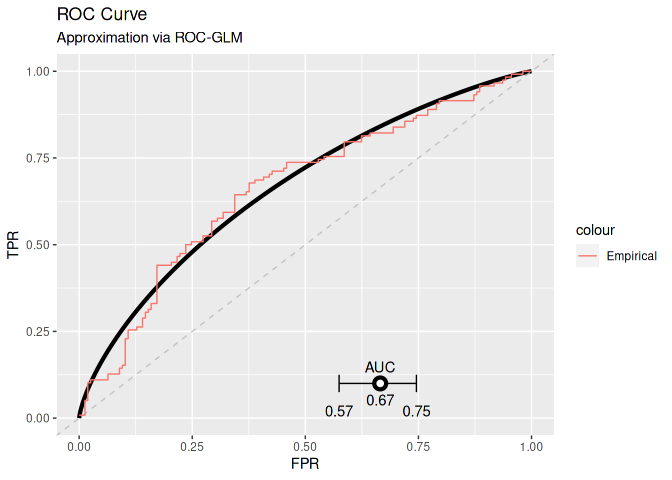
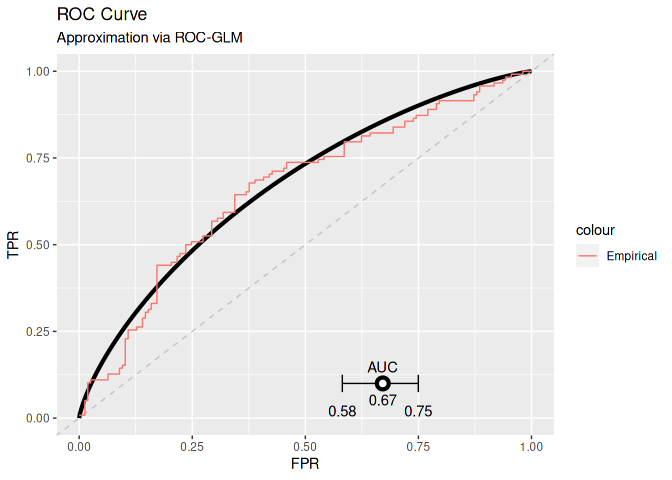
updates

diff --git a/README.md b/README.md
@@ -66,6 +66,8 @@ source(here::here("R/install-ds-packages.R"))
 
 ``` r
 library(DSI)
+#> Loading required package: progress
+#> Loading required package: R6
 library(DSOpal)
 library(dsBaseClient)
 
@@ -103,7 +105,7 @@ conn = datashield.login(logins = builder$build(), assign = TRUE)
 #>   (the whole dataset) will be assigned to R!
 #> 
 #> Assigning table data...
-#>    [-------------------------------------------------------------------------------------]   0% / 0s  Assigning ds1 (DIFUTURE-TEST.SRV1) [=======>-------------------------------------------]  17% / 2s  Assigning ds2 (DIFUTURE-TEST.SRV2) [================>----------------------------------]  33% / 2s  Assigning ds3 (DIFUTURE-TEST.SRV3) [=========================>-------------------------]  50% / 2s  Assigning ds4 (DIFUTURE-TEST.SRV4) [=================================>-----------------]  67% / 3s  Assigning ds5 (DIFUTURE-TEST.SRV5) [=========================================>---------]  83% / 3s  Assigned all tables [==================================================================] 100% / 4s
+#>    [-------------------------------------------------------------------------------------]   0% / 0s  Assigning ds1 (DIFUTURE-TEST.SRV1) [=======>-------------------------------------------]  17% / 2s  Assigning ds2 (DIFUTURE-TEST.SRV2) [================>----------------------------------]  33% / 2s  Assigning ds3 (DIFUTURE-TEST.SRV3) [=========================>-------------------------]  50% / 3s  Assigning ds4 (DIFUTURE-TEST.SRV4) [=================================>-----------------]  67% / 3s  Assigning ds5 (DIFUTURE-TEST.SRV5) [=========================================>---------]  83% / 3s  Assigned all tables [==================================================================] 100% / 4s
 datashield.symbols(conn)
 #> $ds1
 #> [1] "D"
@@ -119,6 +121,92 @@ datashield.symbols(conn)
 #> 
 #> $ds5
 #> [1] "D"
+ds.summary("D")
+#>    [-------------------------------------------------------------------------------------]   0% / 0s  Checking ds1 (exists("D")) [-----------------------------------------------------------]   0% / 0s  Getting aggregate ds1 (exists("D")) [=======>------------------------------------------]  17% / 0s  Checking ds2 (exists("D")) [=========>-------------------------------------------------]  17% / 0s  Getting aggregate ds2 (exists("D")) [================>---------------------------------]  33% / 0s  Checking ds3 (exists("D")) [===================>---------------------------------------]  33% / 1s  Getting aggregate ds3 (exists("D")) [========================>-------------------------]  50% / 1s  Checking ds4 (exists("D")) [=============================>-----------------------------]  50% / 1s  Getting aggregate ds4 (exists("D")) [================================>-----------------]  67% / 1s  Checking ds5 (exists("D")) [======================================>--------------------]  67% / 1s  Getting aggregate ds5 (exists("D")) [=========================================>--------]  83% / 1s  Aggregated (exists("D")) [=============================================================] 100% / 1s
+#>    [-------------------------------------------------------------------------------------]   0% / 0s  Aggregating ds1 (classDS("D")) [========>----------------------------------------------]  17% / 0s  Aggregating ds2 (classDS("D")) [=================>-------------------------------------]  33% / 0s  Aggregating ds3 (classDS("D")) [===========================>---------------------------]  50% / 0s  Aggregating ds4 (classDS("D")) [====================================>------------------]  67% / 0s  Aggregating ds5 (classDS("D")) [=============================================>---------]  83% / 0s  Checking ds1 (classDS("D")) [----------------------------------------------------------]   0% / 0s  Getting aggregate ds1 (classDS("D")) [=======>-----------------------------------------]  17% / 0s  Checking ds2 (classDS("D")) [=========>------------------------------------------------]  17% / 0s  Getting aggregate ds2 (classDS("D")) [===============>---------------------------------]  33% / 0s  Checking ds3 (classDS("D")) [==================>---------------------------------------]  33% / 0s  Getting aggregate ds3 (classDS("D")) [=======================>-------------------------]  50% / 0s  Checking ds4 (classDS("D")) [============================>-----------------------------]  50% / 0s  Getting aggregate ds4 (classDS("D")) [================================>----------------]  67% / 0s  Checking ds5 (classDS("D")) [======================================>-------------------]  67% / 0s  Getting aggregate ds5 (classDS("D")) [========================================>--------]  83% / 0s  Aggregated (classDS("D")) [============================================================] 100% / 0s
+#>    [-------------------------------------------------------------------------------------]   0% / 0s  Checking ds1 (isValidDS(D)) [----------------------------------------------------------]   0% / 0s  Getting aggregate ds1 (isValidDS(D)) [=======================>-------------------------]  50% / 0s  Aggregated (isValidDS(D)) [============================================================] 100% / 0s
+#>    [-------------------------------------------------------------------------------------]   0% / 0s  Checking ds1 (dimDS("D")) [------------------------------------------------------------]   0% / 0s  Getting aggregate ds1 (dimDS("D")) [=========================>-------------------------]  50% / 0s  Aggregated (dimDS("D")) [==============================================================] 100% / 0s
+#>    [-------------------------------------------------------------------------------------]   0% / 0s  Checking ds1 (colnamesDS("D")) [-------------------------------------------------------]   0% / 0s  Getting aggregate ds1 (colnamesDS("D")) [======================>-----------------------]  50% / 0s  Aggregated (colnamesDS("D")) [=========================================================] 100% / 0s
+#>    [-------------------------------------------------------------------------------------]   0% / 0s  Checking ds2 (isValidDS(D)) [----------------------------------------------------------]   0% / 0s  Getting aggregate ds2 (isValidDS(D)) [=======================>-------------------------]  50% / 0s  Aggregated (isValidDS(D)) [============================================================] 100% / 0s
+#>    [-------------------------------------------------------------------------------------]   0% / 0s  Checking ds2 (dimDS("D")) [------------------------------------------------------------]   0% / 0s  Getting aggregate ds2 (dimDS("D")) [=========================>-------------------------]  50% / 0s  Aggregated (dimDS("D")) [==============================================================] 100% / 0s
+#>    [-------------------------------------------------------------------------------------]   0% / 0s  Checking ds2 (colnamesDS("D")) [-------------------------------------------------------]   0% / 0s  Getting aggregate ds2 (colnamesDS("D")) [======================>-----------------------]  50% / 0s  Aggregated (colnamesDS("D")) [=========================================================] 100% / 0s
+#>    [-------------------------------------------------------------------------------------]   0% / 0s  Checking ds3 (isValidDS(D)) [----------------------------------------------------------]   0% / 0s  Getting aggregate ds3 (isValidDS(D)) [=======================>-------------------------]  50% / 0s  Aggregated (isValidDS(D)) [============================================================] 100% / 0s
+#>    [-------------------------------------------------------------------------------------]   0% / 0s  Checking ds3 (dimDS("D")) [------------------------------------------------------------]   0% / 0s  Getting aggregate ds3 (dimDS("D")) [=========================>-------------------------]  50% / 0s  Aggregated (dimDS("D")) [==============================================================] 100% / 0s
+#>    [-------------------------------------------------------------------------------------]   0% / 0s  Checking ds3 (colnamesDS("D")) [-------------------------------------------------------]   0% / 0s  Getting aggregate ds3 (colnamesDS("D")) [======================>-----------------------]  50% / 0s  Aggregated (colnamesDS("D")) [=========================================================] 100% / 0s
+#>    [-------------------------------------------------------------------------------------]   0% / 0s  Checking ds4 (isValidDS(D)) [----------------------------------------------------------]   0% / 0s  Getting aggregate ds4 (isValidDS(D)) [=======================>-------------------------]  50% / 0s  Aggregated (isValidDS(D)) [============================================================] 100% / 0s
+#>    [-------------------------------------------------------------------------------------]   0% / 0s  Checking ds4 (dimDS("D")) [------------------------------------------------------------]   0% / 0s  Getting aggregate ds4 (dimDS("D")) [=========================>-------------------------]  50% / 0s  Aggregated (dimDS("D")) [==============================================================] 100% / 0s
+#>    [-------------------------------------------------------------------------------------]   0% / 0s  Checking ds4 (colnamesDS("D")) [-------------------------------------------------------]   0% / 0s  Getting aggregate ds4 (colnamesDS("D")) [======================>-----------------------]  50% / 0s  Aggregated (colnamesDS("D")) [=========================================================] 100% / 0s
+#>    [-------------------------------------------------------------------------------------]   0% / 0s  Checking ds5 (isValidDS(D)) [----------------------------------------------------------]   0% / 0s  Getting aggregate ds5 (isValidDS(D)) [=======================>-------------------------]  50% / 0s  Aggregated (isValidDS(D)) [============================================================] 100% / 0s
+#>    [-------------------------------------------------------------------------------------]   0% / 0s  Checking ds5 (dimDS("D")) [------------------------------------------------------------]   0% / 0s  Getting aggregate ds5 (dimDS("D")) [=========================>-------------------------]  50% / 0s  Aggregated (dimDS("D")) [==============================================================] 100% / 0s
+#>    [-------------------------------------------------------------------------------------]   0% / 0s  Checking ds5 (colnamesDS("D")) [-------------------------------------------------------]   0% / 0s  Getting aggregate ds5 (colnamesDS("D")) [======================>-----------------------]  50% / 0s  Aggregated (colnamesDS("D")) [=========================================================] 100% / 0s
+#> $ds1
+#> $ds1$class
+#> [1] "data.frame"
+#> 
+#> $ds1$`number of rows`
+#> [1] 52
+#> 
+#> $ds1$`number of columns`
+#> [1] 10
+#> 
+#> $ds1$`variables held`
+#>  [1] "horTh"    "age"      "menostat" "tsize"    "tgrade"   "pnodes"   "progrec"  "estrec"   "time"     "cens"    
+#> 
+#> 
+#> $ds2
+#> $ds2$class
+#> [1] "data.frame"
+#> 
+#> $ds2$`number of rows`
+#> [1] 46
+#> 
+#> $ds2$`number of columns`
+#> [1] 10
+#> 
+#> $ds2$`variables held`
+#>  [1] "horTh"    "age"      "menostat" "tsize"    "tgrade"   "pnodes"   "progrec"  "estrec"   "time"     "cens"    
+#> 
+#> 
+#> $ds3
+#> $ds3$class
+#> [1] "data.frame"
+#> 
+#> $ds3$`number of rows`
+#> [1] 55
+#> 
+#> $ds3$`number of columns`
+#> [1] 10
+#> 
+#> $ds3$`variables held`
+#>  [1] "horTh"    "age"      "menostat" "tsize"    "tgrade"   "pnodes"   "progrec"  "estrec"   "time"     "cens"    
+#> 
+#> 
+#> $ds4
+#> $ds4$class
+#> [1] "data.frame"
+#> 
+#> $ds4$`number of rows`
+#> [1] 59
+#> 
+#> $ds4$`number of columns`
+#> [1] 10
+#> 
+#> $ds4$`variables held`
+#>  [1] "horTh"    "age"      "menostat" "tsize"    "tgrade"   "pnodes"   "progrec"  "estrec"   "time"     "cens"    
+#> 
+#> 
+#> $ds5
+#> $ds5$class
+#> [1] "data.frame"
+#> 
+#> $ds5$`number of rows`
+#> [1] 63
+#> 
+#> $ds5$`number of columns`
+#> [1] 10
+#> 
+#> $ds5$`variables held`
+#>  [1] "horTh"    "age"      "menostat" "tsize"    "tgrade"   "pnodes"   "progrec"  "estrec"   "time"     "cens"
 ```
 
 ### Push and predict
@@ -129,7 +217,7 @@ load(here::here("data/mod.Rda"))
 
 ## Push the model to the servers:
 pushObject(conn, obj = mod)
-#> [2022-02-09 23:42:13] Your object is bigger than 1 MB (7.1 MB). Uploading larger objects may take some time.
+#> [2022-02-09 23:58:17] Your object is bigger than 1 MB (7.1 MB). Uploading larger objects may take some time.
 #>    [-------------------------------------------------------------------------------------]   0% / 0s  Checking ds1 (mod <- decodeBinary("58-0a-00-00-00-03-00-04-01-02-00-03-05-00-00-00-00-05-55-54-...  Finalizing assignment ds1 (mod <- decodeBinary("58-0a-00-00-00-03-00-04-01-02-00-03-05-00-00-00...  Checking ds2 (mod <- decodeBinary("58-0a-00-00-00-03-00-04-01-02-00-03-05-00-00-00-00-05-55-54-...  Finalizing assignment ds2 (mod <- decodeBinary("58-0a-00-00-00-03-00-04-01-02-00-03-05-00-00-00...  Checking ds3 (mod <- decodeBinary("58-0a-00-00-00-03-00-04-01-02-00-03-05-00-00-00-00-05-55-54-...  Finalizing assignment ds3 (mod <- decodeBinary("58-0a-00-00-00-03-00-04-01-02-00-03-05-00-00-00...  Checking ds4 (mod <- decodeBinary("58-0a-00-00-00-03-00-04-01-02-00-03-05-00-00-00-00-05-55-54-...  Finalizing assignment ds4 (mod <- decodeBinary("58-0a-00-00-00-03-00-04-01-02-00-03-05-00-00-00...  Checking ds5 (mod <- decodeBinary("58-0a-00-00-00-03-00-04-01-02-00-03-05-00-00-00-00-05-55-54-...  Finalizing assignment ds5 (mod <- decodeBinary("58-0a-00-00-00-03-00-04-01-02-00-03-05-00-00-00...  Assigned expr. (mod <- decodeBinary("58-0a-00-00-00-03-00-04-01-02-00-03-05-00-00-00-00-05-55-5...
 datashield.symbols(conn)
 #> $ds1
@@ -192,40 +280,40 @@ gg_cal
 ``` r
 roc_glm = dsROCGLM(conn, "D$cens", "probs")
 #> 
-#> [2022-02-09 23:45:17] Initializing ROC-GLM
+#> [2022-02-10 00:01:21] Initializing ROC-GLM
 #> 
-#> [2022-02-09 23:45:17] Host: Received scores of negative response
-#> [2022-02-09 23:45:17] Calculating standard deviation of differences
+#> [2022-02-10 00:01:21] Host: Received scores of negative response
+#> [2022-02-10 00:01:21] Calculating standard deviation of differences
 #>    [-------------------------------------------------------------------------------------]   0% / 0s  Checking ds1 (getNegativeScoresVar("D$cens", "probs", 4)) [----------------------------]   0% / 0s  Getting aggregate ds1 (getNegativeScoresVar("D$cens", "probs", 4)) [==>----------------]  17% / 0s  Checking ds2 (getNegativeScoresVar("D$cens", "probs", 4)) [====>-----------------------]  17% / 0s  Getting aggregate ds2 (getNegativeScoresVar("D$cens", "probs", 4)) [=====>-------------]  33% / 0s  Checking ds3 (getNegativeScoresVar("D$cens", "probs", 4)) [========>-------------------]  33% / 0s  Getting aggregate ds3 (getNegativeScoresVar("D$cens", "probs", 4)) [=========>---------]  50% / 1s  Checking ds4 (getNegativeScoresVar("D$cens", "probs", 4)) [=============>--------------]  50% / 1s  Getting aggregate ds4 (getNegativeScoresVar("D$cens", "probs", 4)) [============>------]  67% / 1s  Checking ds5 (getNegativeScoresVar("D$cens", "probs", 4)) [==================>---------]  67% / 1s  Getting aggregate ds5 (getNegativeScoresVar("D$cens", "probs", 4)) [===============>---]  83% / 1s  Aggregated (...) [=====================================================================] 100% / 1s
 #>    [-------------------------------------------------------------------------------------]   0% / 0s  Checking ds1 (meanDS(D$cens)) [--------------------------------------------------------]   0% / 0s  Getting aggregate ds1 (meanDS(D$cens)) [=======>---------------------------------------]  17% / 0s  Checking ds2 (meanDS(D$cens)) [========>-----------------------------------------------]  17% / 0s  Getting aggregate ds2 (meanDS(D$cens)) [===============>-------------------------------]  33% / 0s  Checking ds3 (meanDS(D$cens)) [==================>-------------------------------------]  33% / 0s  Getting aggregate ds3 (meanDS(D$cens)) [=======================>-----------------------]  50% / 1s  Checking ds4 (meanDS(D$cens)) [===========================>----------------------------]  50% / 1s  Getting aggregate ds4 (meanDS(D$cens)) [==============================>----------------]  67% / 1s  Checking ds5 (meanDS(D$cens)) [====================================>-------------------]  67% / 1s  Getting aggregate ds5 (meanDS(D$cens)) [======================================>--------]  83% / 1s  Aggregated (meanDS(D$cens)) [==========================================================] 100% / 1s
-#> [2022-02-09 23:45:19] Receiving negative scores
-#>    [-------------------------------------------------------------------------------------]   0% / 0s  Checking ds1 (getNegativeScores("D$cens", "probs", 0.0291762891452622, 2)) [-----------]   0% / 0s  Getting aggregate ds1 (getNegativeScores("D$cens", "probs", 0.0291762891452622, 2)) [--]  17% / 0s  Checking ds2 (getNegativeScores("D$cens", "probs", 0.0291762891452622, 2)) [=>---------]  17% / 0s  Getting aggregate ds2 (getNegativeScores("D$cens", "probs", 0.0291762891452622, 2)) [>-]  33% / 0s  Checking ds3 (getNegativeScores("D$cens", "probs", 0.0291762891452622, 2)) [===>-------]  33% / 1s  Getting aggregate ds3 (getNegativeScores("D$cens", "probs", 0.0291762891452622, 2)) [>-]  50% / 1s  Checking ds4 (getNegativeScores("D$cens", "probs", 0.0291762891452622, 2)) [=====>-----]  50% / 1s  Getting aggregate ds4 (getNegativeScores("D$cens", "probs", 0.0291762891452622, 2)) [>-]  67% / 1s  Checking ds5 (getNegativeScores("D$cens", "probs", 0.0291762891452622, 2)) [======>----]  67% / 1s  Getting aggregate ds5 (getNegativeScores("D$cens", "probs", 0.0291762891452622, 2)) [=>]  83% / 1s  Aggregated (...) [=====================================================================] 100% / 1s
-#> [2022-02-09 23:45:20] Host: Pushing pooled scores
+#> [2022-02-10 00:01:23] Receiving negative scores
+#>    [-------------------------------------------------------------------------------------]   0% / 0s  Checking ds1 (getNegativeScores("D$cens", "probs", 0.0306395105255389, 2)) [-----------]   0% / 0s  Getting aggregate ds1 (getNegativeScores("D$cens", "probs", 0.0306395105255389, 2)) [--]  17% / 0s  Checking ds2 (getNegativeScores("D$cens", "probs", 0.0306395105255389, 2)) [=>---------]  17% / 0s  Getting aggregate ds2 (getNegativeScores("D$cens", "probs", 0.0306395105255389, 2)) [>-]  33% / 0s  Checking ds3 (getNegativeScores("D$cens", "probs", 0.0306395105255389, 2)) [===>-------]  33% / 1s  Getting aggregate ds3 (getNegativeScores("D$cens", "probs", 0.0306395105255389, 2)) [>-]  50% / 1s  Checking ds4 (getNegativeScores("D$cens", "probs", 0.0306395105255389, 2)) [=====>-----]  50% / 1s  Getting aggregate ds4 (getNegativeScores("D$cens", "probs", 0.0306395105255389, 2)) [>-]  67% / 1s  Checking ds5 (getNegativeScores("D$cens", "probs", 0.0306395105255389, 2)) [======>----]  67% / 1s  Getting aggregate ds5 (getNegativeScores("D$cens", "probs", 0.0306395105255389, 2)) [=>]  83% / 1s  Aggregated (...) [=====================================================================] 100% / 1s
+#> [2022-02-10 00:01:24] Host: Pushing pooled scores
 #>    [-------------------------------------------------------------------------------------]   0% / 0s  Checking ds1 (pooled_scores <- decodeBinary("58-0a-00-00-00-03-00-04-01-02-00-03-05-00-00-00-00...  Finalizing assignment ds1 (pooled_scores <- decodeBinary("58-0a-00-00-00-03-00-04-01-02-00-03-0...  Checking ds2 (pooled_scores <- decodeBinary("58-0a-00-00-00-03-00-04-01-02-00-03-05-00-00-00-00...  Finalizing assignment ds2 (pooled_scores <- decodeBinary("58-0a-00-00-00-03-00-04-01-02-00-03-0...  Checking ds3 (pooled_scores <- decodeBinary("58-0a-00-00-00-03-00-04-01-02-00-03-05-00-00-00-00...  Finalizing assignment ds3 (pooled_scores <- decodeBinary("58-0a-00-00-00-03-00-04-01-02-00-03-0...  Checking ds4 (pooled_scores <- decodeBinary("58-0a-00-00-00-03-00-04-01-02-00-03-05-00-00-00-00...  Finalizing assignment ds4 (pooled_scores <- decodeBinary("58-0a-00-00-00-03-00-04-01-02-00-03-0...  Checking ds5 (pooled_scores <- decodeBinary("58-0a-00-00-00-03-00-04-01-02-00-03-05-00-00-00-00...  Finalizing assignment ds5 (pooled_scores <- decodeBinary("58-0a-00-00-00-03-00-04-01-02-00-03-0...  Assigned expr. (pooled_scores <- decodeBinary("58-0a-00-00-00-03-00-04-01-02-00-03-05-00-00-00-...
-#> [2022-02-09 23:45:21] Server: Calculating placement values and parts for ROC-GLM
+#> [2022-02-10 00:01:25] Server: Calculating placement values and parts for ROC-GLM
 #>    [-------------------------------------------------------------------------------------]   0% / 0s  Checking ds1 (roc_data <- rocGLMFrame("D$cens", "probs", "pooled_scores")) [-----------]   0% / 0s  Finalizing assignment ds1 (roc_data <- rocGLMFrame("D$cens", "probs", "pooled_scores")) []  17%...  Checking ds2 (roc_data <- rocGLMFrame("D$cens", "probs", "pooled_scores")) [=>---------]  17% / 0s  Finalizing assignment ds2 (roc_data <- rocGLMFrame("D$cens", "probs", "pooled_scores")) []  33%...  Checking ds3 (roc_data <- rocGLMFrame("D$cens", "probs", "pooled_scores")) [===>-------]  33% / 1s  Finalizing assignment ds3 (roc_data <- rocGLMFrame("D$cens", "probs", "pooled_scores")) []  50%...  Checking ds4 (roc_data <- rocGLMFrame("D$cens", "probs", "pooled_scores")) [=====>-----]  50% / 1s  Finalizing assignment ds4 (roc_data <- rocGLMFrame("D$cens", "probs", "pooled_scores")) []  67%...  Checking ds5 (roc_data <- rocGLMFrame("D$cens", "probs", "pooled_scores")) [======>----]  67% / 1s  Finalizing assignment ds5 (roc_data <- rocGLMFrame("D$cens", "probs", "pooled_scores")) []  83%...  Assigned expr. (roc_data <- rocGLMFrame("D$cens", "probs", "pooled_scores")) [=========] 100% / 1s
-#> [2022-02-09 23:45:22] Server: Calculating probit regression to obtain ROC-GLM
+#> [2022-02-10 00:01:26] Server: Calculating probit regression to obtain ROC-GLM
 #>    [-------------------------------------------------------------------------------------]   0% / 0s  Checking ds1 (calculateDistrGLMParts(formula = y ~ x, data = "roc_data", w = "w", ) [--]   0% / 0s  Getting aggregate ds1 (calculateDistrGLMParts(formula = y ~ x, data = "roc_data", w = "w", ) []...  Checking ds2 (calculateDistrGLMParts(formula = y ~ x, data = "roc_data", w = "w", ) [--]  17% / 0s  Getting aggregate ds2 (calculateDistrGLMParts(formula = y ~ x, data = "roc_data", w = "w", ) []...  Checking ds3 (calculateDistrGLMParts(formula = y ~ x, data = "roc_data", w = "w", ) [>-]  33% / 1s  Getting aggregate ds3 (calculateDistrGLMParts(formula = y ~ x, data = "roc_data", w = "w", ) []...  Checking ds4 (calculateDistrGLMParts(formula = y ~ x, data = "roc_data", w = "w", ) [>-]  50% / 1s  Getting aggregate ds4 (calculateDistrGLMParts(formula = y ~ x, data = "roc_data", w = "w", ) []...  Checking ds5 (calculateDistrGLMParts(formula = y ~ x, data = "roc_data", w = "w", ) [>-]  67% / 1s  Getting aggregate ds5 (calculateDistrGLMParts(formula = y ~ x, data = "roc_data", w = "w", ) []...  Aggregated (calculateDistrGLMParts(formula = y ~ x, data = "roc_data", w = "w", ) [====] 100% / 1s
-#> [2022-02-09 23:45:23] Deviance of iter1=52.6631
-#>    [-------------------------------------------------------------------------------------]   0% / 0s  Checking ds1 (calculateDistrGLMParts(formula = y ~ x, data = "roc_data", w = "w", ) [--]   0% / 0s  Getting aggregate ds1 (calculateDistrGLMParts(formula = y ~ x, data = "roc_data", w = "w", ) []...  Checking ds2 (calculateDistrGLMParts(formula = y ~ x, data = "roc_data", w = "w", ) [--]  17% / 0s  Getting aggregate ds2 (calculateDistrGLMParts(formula = y ~ x, data = "roc_data", w = "w", ) []...  Checking ds3 (calculateDistrGLMParts(formula = y ~ x, data = "roc_data", w = "w", ) [>-]  33% / 1s  Getting aggregate ds3 (calculateDistrGLMParts(formula = y ~ x, data = "roc_data", w = "w", ) []...  Checking ds4 (calculateDistrGLMParts(formula = y ~ x, data = "roc_data", w = "w", ) [>-]  50% / 1s  Getting aggregate ds4 (calculateDistrGLMParts(formula = y ~ x, data = "roc_data", w = "w", ) []...  Checking ds5 (calculateDistrGLMParts(formula = y ~ x, data = "roc_data", w = "w", ) [>-]  67% / 1s  Getting aggregate ds5 (calculateDistrGLMParts(formula = y ~ x, data = "roc_data", w = "w", ) []...  Aggregated (calculateDistrGLMParts(formula = y ~ x, data = "roc_data", w = "w", ) [====] 100% / 1s
-#> [2022-02-09 23:45:24] Deviance of iter2=74.1008
-#>    [-------------------------------------------------------------------------------------]   0% / 0s  Checking ds1 (calculateDistrGLMParts(formula = y ~ x, data = "roc_data", w = "w", ) [--]   0% / 0s  Getting aggregate ds1 (calculateDistrGLMParts(formula = y ~ x, data = "roc_data", w = "w", ) []...  Checking ds2 (calculateDistrGLMParts(formula = y ~ x, data = "roc_data", w = "w", ) [--]  17% / 0s  Getting aggregate ds2 (calculateDistrGLMParts(formula = y ~ x, data = "roc_data", w = "w", ) []...  Checking ds3 (calculateDistrGLMParts(formula = y ~ x, data = "roc_data", w = "w", ) [>-]  33% / 1s  Getting aggregate ds3 (calculateDistrGLMParts(formula = y ~ x, data = "roc_data", w = "w", ) []...  Checking ds4 (calculateDistrGLMParts(formula = y ~ x, data = "roc_data", w = "w", ) [>-]  50% / 1s  Getting aggregate ds4 (calculateDistrGLMParts(formula = y ~ x, data = "roc_data", w = "w", ) []...  Checking ds5 (calculateDistrGLMParts(formula = y ~ x, data = "roc_data", w = "w", ) [>-]  67% / 1s  Getting aggregate ds5 (calculateDistrGLMParts(formula = y ~ x, data = "roc_data", w = "w", ) []...  Aggregated (calculateDistrGLMParts(formula = y ~ x, data = "roc_data", w = "w", ) [====] 100% / 1s
-#> [2022-02-09 23:45:25] Deviance of iter3=82.3748
+#> [2022-02-10 00:01:27] Deviance of iter1=52.6631
 #>    [-------------------------------------------------------------------------------------]   0% / 0s  Checking ds1 (calculateDistrGLMParts(formula = y ~ x, data = "roc_data", w = "w", ) [--]   0% / 0s  Getting aggregate ds1 (calculateDistrGLMParts(formula = y ~ x, data = "roc_data", w = "w", ) []...  Checking ds2 (calculateDistrGLMParts(formula = y ~ x, data = "roc_data", w = "w", ) [--]  17% / 0s  Getting aggregate ds2 (calculateDistrGLMParts(formula = y ~ x, data = "roc_data", w = "w", ) []...  Checking ds3 (calculateDistrGLMParts(formula = y ~ x, data = "roc_data", w = "w", ) [>-]  33% / 0s  Getting aggregate ds3 (calculateDistrGLMParts(formula = y ~ x, data = "roc_data", w = "w", ) []...  Checking ds4 (calculateDistrGLMParts(formula = y ~ x, data = "roc_data", w = "w", ) [>-]  50% / 1s  Getting aggregate ds4 (calculateDistrGLMParts(formula = y ~ x, data = "roc_data", w = "w", ) []...  Checking ds5 (calculateDistrGLMParts(formula = y ~ x, data = "roc_data", w = "w", ) [>-]  67% / 1s  Getting aggregate ds5 (calculateDistrGLMParts(formula = y ~ x, data = "roc_data", w = "w", ) []...  Aggregated (calculateDistrGLMParts(formula = y ~ x, data = "roc_data", w = "w", ) [====] 100% / 1s
-#> [2022-02-09 23:45:26] Deviance of iter4=82.6891
-#>    [-------------------------------------------------------------------------------------]   0% / 0s  Checking ds1 (calculateDistrGLMParts(formula = y ~ x, data = "roc_data", w = "w", ) [--]   0% / 1s  Getting aggregate ds1 (calculateDistrGLMParts(formula = y ~ x, data = "roc_data", w = "w", ) []...  Checking ds2 (calculateDistrGLMParts(formula = y ~ x, data = "roc_data", w = "w", ) [--]  17% / 1s  Getting aggregate ds2 (calculateDistrGLMParts(formula = y ~ x, data = "roc_data", w = "w", ) []...  Checking ds3 (calculateDistrGLMParts(formula = y ~ x, data = "roc_data", w = "w", ) [>-]  33% / 1s  Getting aggregate ds3 (calculateDistrGLMParts(formula = y ~ x, data = "roc_data", w = "w", ) []...  Checking ds4 (calculateDistrGLMParts(formula = y ~ x, data = "roc_data", w = "w", ) [>-]  50% / 1s  Getting aggregate ds4 (calculateDistrGLMParts(formula = y ~ x, data = "roc_data", w = "w", ) []...  Checking ds5 (calculateDistrGLMParts(formula = y ~ x, data = "roc_data", w = "w", ) [>-]  67% / 1s  Getting aggregate ds5 (calculateDistrGLMParts(formula = y ~ x, data = "roc_data", w = "w", ) []...  Aggregated (calculateDistrGLMParts(formula = y ~ x, data = "roc_data", w = "w", ) [====] 100% / 1s
-#> [2022-02-09 23:45:27] Deviance of iter5=82.6895
+#> [2022-02-10 00:01:28] Deviance of iter2=74.7049
 #>    [-------------------------------------------------------------------------------------]   0% / 0s  Checking ds1 (calculateDistrGLMParts(formula = y ~ x, data = "roc_data", w = "w", ) [--]   0% / 0s  Getting aggregate ds1 (calculateDistrGLMParts(formula = y ~ x, data = "roc_data", w = "w", ) []...  Checking ds2 (calculateDistrGLMParts(formula = y ~ x, data = "roc_data", w = "w", ) [--]  17% / 0s  Getting aggregate ds2 (calculateDistrGLMParts(formula = y ~ x, data = "roc_data", w = "w", ) []...  Checking ds3 (calculateDistrGLMParts(formula = y ~ x, data = "roc_data", w = "w", ) [>-]  33% / 1s  Getting aggregate ds3 (calculateDistrGLMParts(formula = y ~ x, data = "roc_data", w = "w", ) []...  Checking ds4 (calculateDistrGLMParts(formula = y ~ x, data = "roc_data", w = "w", ) [>-]  50% / 1s  Getting aggregate ds4 (calculateDistrGLMParts(formula = y ~ x, data = "roc_data", w = "w", ) []...  Checking ds5 (calculateDistrGLMParts(formula = y ~ x, data = "roc_data", w = "w", ) [>-]  67% / 1s  Getting aggregate ds5 (calculateDistrGLMParts(formula = y ~ x, data = "roc_data", w = "w", ) []...  Aggregated (calculateDistrGLMParts(formula = y ~ x, data = "roc_data", w = "w", ) [====] 100% / 1s
-#> [2022-02-09 23:45:28] Deviance of iter6=82.6895
-#> [2022-02-09 23:45:28] Host: Finished calculating ROC-GLM
-#> [2022-02-09 23:45:28] Host: Cleaning data on server
-#> [2022-02-09 23:45:30] Host: Calculating AUC and CI
-#>    [-------------------------------------------------------------------------------------]   0% / 0s  Checking ds1 (meanDS(D$cens)) [--------------------------------------------------------]   0% / 0s  Getting aggregate ds1 (meanDS(D$cens)) [=======>---------------------------------------]  17% / 0s  Checking ds2 (meanDS(D$cens)) [========>-----------------------------------------------]  17% / 0s  Getting aggregate ds2 (meanDS(D$cens)) [===============>-------------------------------]  33% / 0s  Checking ds3 (meanDS(D$cens)) [==================>-------------------------------------]  33% / 0s  Getting aggregate ds3 (meanDS(D$cens)) [=======================>-----------------------]  50% / 1s  Checking ds4 (meanDS(D$cens)) [===========================>----------------------------]  50% / 1s  Getting aggregate ds4 (meanDS(D$cens)) [==============================>----------------]  67% / 1s  Checking ds5 (meanDS(D$cens)) [====================================>-------------------]  67% / 1s  Getting aggregate ds5 (meanDS(D$cens)) [======================================>--------]  83% / 1s  Aggregated (meanDS(D$cens)) [==========================================================] 100% / 1s
+#> [2022-02-10 00:01:28] Deviance of iter3=83.9938
+#>    [-------------------------------------------------------------------------------------]   0% / 0s  Checking ds1 (calculateDistrGLMParts(formula = y ~ x, data = "roc_data", w = "w", ) [--]   0% / 0s  Getting aggregate ds1 (calculateDistrGLMParts(formula = y ~ x, data = "roc_data", w = "w", ) []...  Checking ds2 (calculateDistrGLMParts(formula = y ~ x, data = "roc_data", w = "w", ) [--]  17% / 0s  Getting aggregate ds2 (calculateDistrGLMParts(formula = y ~ x, data = "roc_data", w = "w", ) []...  Checking ds3 (calculateDistrGLMParts(formula = y ~ x, data = "roc_data", w = "w", ) [>-]  33% / 1s  Getting aggregate ds3 (calculateDistrGLMParts(formula = y ~ x, data = "roc_data", w = "w", ) []...  Checking ds4 (calculateDistrGLMParts(formula = y ~ x, data = "roc_data", w = "w", ) [>-]  50% / 1s  Getting aggregate ds4 (calculateDistrGLMParts(formula = y ~ x, data = "roc_data", w = "w", ) []...  Checking ds5 (calculateDistrGLMParts(formula = y ~ x, data = "roc_data", w = "w", ) [>-]  67% / 1s  Getting aggregate ds5 (calculateDistrGLMParts(formula = y ~ x, data = "roc_data", w = "w", ) []...  Aggregated (calculateDistrGLMParts(formula = y ~ x, data = "roc_data", w = "w", ) [====] 100% / 1s
+#> [2022-02-10 00:01:29] Deviance of iter4=84.4104
+#>    [-------------------------------------------------------------------------------------]   0% / 0s  Checking ds1 (calculateDistrGLMParts(formula = y ~ x, data = "roc_data", w = "w", ) [--]   0% / 0s  Getting aggregate ds1 (calculateDistrGLMParts(formula = y ~ x, data = "roc_data", w = "w", ) []...  Checking ds2 (calculateDistrGLMParts(formula = y ~ x, data = "roc_data", w = "w", ) [--]  17% / 0s  Getting aggregate ds2 (calculateDistrGLMParts(formula = y ~ x, data = "roc_data", w = "w", ) []...  Checking ds3 (calculateDistrGLMParts(formula = y ~ x, data = "roc_data", w = "w", ) [>-]  33% / 1s  Getting aggregate ds3 (calculateDistrGLMParts(formula = y ~ x, data = "roc_data", w = "w", ) []...  Checking ds4 (calculateDistrGLMParts(formula = y ~ x, data = "roc_data", w = "w", ) [>-]  50% / 1s  Getting aggregate ds4 (calculateDistrGLMParts(formula = y ~ x, data = "roc_data", w = "w", ) []...  Checking ds5 (calculateDistrGLMParts(formula = y ~ x, data = "roc_data", w = "w", ) [>-]  67% / 1s  Getting aggregate ds5 (calculateDistrGLMParts(formula = y ~ x, data = "roc_data", w = "w", ) []...  Aggregated (calculateDistrGLMParts(formula = y ~ x, data = "roc_data", w = "w", ) [====] 100% / 1s
+#> [2022-02-10 00:01:30] Deviance of iter5=84.4112
+#>    [-------------------------------------------------------------------------------------]   0% / 0s  Checking ds1 (calculateDistrGLMParts(formula = y ~ x, data = "roc_data", w = "w", ) [--]   0% / 0s  Getting aggregate ds1 (calculateDistrGLMParts(formula = y ~ x, data = "roc_data", w = "w", ) []...  Checking ds2 (calculateDistrGLMParts(formula = y ~ x, data = "roc_data", w = "w", ) [--]  17% / 0s  Getting aggregate ds2 (calculateDistrGLMParts(formula = y ~ x, data = "roc_data", w = "w", ) []...  Checking ds3 (calculateDistrGLMParts(formula = y ~ x, data = "roc_data", w = "w", ) [>-]  33% / 0s  Getting aggregate ds3 (calculateDistrGLMParts(formula = y ~ x, data = "roc_data", w = "w", ) []...  Checking ds4 (calculateDistrGLMParts(formula = y ~ x, data = "roc_data", w = "w", ) [>-]  50% / 1s  Getting aggregate ds4 (calculateDistrGLMParts(formula = y ~ x, data = "roc_data", w = "w", ) []...  Checking ds5 (calculateDistrGLMParts(formula = y ~ x, data = "roc_data", w = "w", ) [>-]  67% / 1s  Getting aggregate ds5 (calculateDistrGLMParts(formula = y ~ x, data = "roc_data", w = "w", ) []...  Aggregated (calculateDistrGLMParts(formula = y ~ x, data = "roc_data", w = "w", ) [====] 100% / 1s
+#> [2022-02-10 00:01:31] Deviance of iter6=84.4112
+#> [2022-02-10 00:01:31] Host: Finished calculating ROC-GLM
+#> [2022-02-10 00:01:31] Host: Cleaning data on server
+#> [2022-02-10 00:01:34] Host: Calculating AUC and CI
+#>    [-------------------------------------------------------------------------------------]   0% / 0s  Checking ds1 (meanDS(D$cens)) [--------------------------------------------------------]   0% / 0s  Getting aggregate ds1 (meanDS(D$cens)) [=======>---------------------------------------]  17% / 0s  Checking ds2 (meanDS(D$cens)) [========>-----------------------------------------------]  17% / 0s  Getting aggregate ds2 (meanDS(D$cens)) [===============>-------------------------------]  33% / 0s  Checking ds3 (meanDS(D$cens)) [==================>-------------------------------------]  33% / 1s  Getting aggregate ds3 (meanDS(D$cens)) [=======================>-----------------------]  50% / 1s  Checking ds4 (meanDS(D$cens)) [===========================>----------------------------]  50% / 1s  Getting aggregate ds4 (meanDS(D$cens)) [==============================>----------------]  67% / 1s  Checking ds5 (meanDS(D$cens)) [====================================>-------------------]  67% / 1s  Getting aggregate ds5 (meanDS(D$cens)) [======================================>--------]  83% / 1s  Aggregated (meanDS(D$cens)) [==========================================================] 100% / 1s
 #>    [-------------------------------------------------------------------------------------]   0% / 0s  Checking ds1 (getNegativeScoresVar("D$cens", "probs", 4)) [----------------------------]   0% / 0s  Getting aggregate ds1 (getNegativeScoresVar("D$cens", "probs", 4)) [==>----------------]  17% / 0s  Checking ds2 (getNegativeScoresVar("D$cens", "probs", 4)) [====>-----------------------]  17% / 0s  Getting aggregate ds2 (getNegativeScoresVar("D$cens", "probs", 4)) [=====>-------------]  33% / 0s  Checking ds3 (getNegativeScoresVar("D$cens", "probs", 4)) [========>-------------------]  33% / 0s  Getting aggregate ds3 (getNegativeScoresVar("D$cens", "probs", 4)) [=========>---------]  50% / 1s  Checking ds4 (getNegativeScoresVar("D$cens", "probs", 4)) [=============>--------------]  50% / 1s  Getting aggregate ds4 (getNegativeScoresVar("D$cens", "probs", 4)) [============>------]  67% / 1s  Checking ds5 (getNegativeScoresVar("D$cens", "probs", 4)) [==================>---------]  67% / 1s  Getting aggregate ds5 (getNegativeScoresVar("D$cens", "probs", 4)) [===============>---]  83% / 1s  Aggregated (...) [=====================================================================] 100% / 1s
-#>    [-------------------------------------------------------------------------------------]   0% / 0s  Checking ds1 (getPositiveScoresVar("D$cens", "probs", 4)) [----------------------------]   0% / 0s  Getting aggregate ds1 (getPositiveScoresVar("D$cens", "probs", 4)) [==>----------------]  17% / 0s  Checking ds2 (getPositiveScoresVar("D$cens", "probs", 4)) [====>-----------------------]  17% / 0s  Getting aggregate ds2 (getPositiveScoresVar("D$cens", "probs", 4)) [=====>-------------]  33% / 0s  Checking ds3 (getPositiveScoresVar("D$cens", "probs", 4)) [========>-------------------]  33% / 1s  Getting aggregate ds3 (getPositiveScoresVar("D$cens", "probs", 4)) [=========>---------]  50% / 1s  Checking ds4 (getPositiveScoresVar("D$cens", "probs", 4)) [=============>--------------]  50% / 1s  Getting aggregate ds4 (getPositiveScoresVar("D$cens", "probs", 4)) [============>------]  67% / 1s  Checking ds5 (getPositiveScoresVar("D$cens", "probs", 4)) [==================>---------]  67% / 1s  Getting aggregate ds5 (getPositiveScoresVar("D$cens", "probs", 4)) [===============>---]  83% / 1s  Aggregated (...) [=====================================================================] 100% / 1s
-#>    [-------------------------------------------------------------------------------------]   0% / 0s  Checking ds1 (getNegativeScores("D$cens", "probs", 0.0508443717439644, 2)) [-----------]   0% / 0s  Getting aggregate ds1 (getNegativeScores("D$cens", "probs", 0.0508443717439644, 2)) [--]  17% / 0s  Checking ds2 (getNegativeScores("D$cens", "probs", 0.0508443717439644, 2)) [=>---------]  17% / 0s  Getting aggregate ds2 (getNegativeScores("D$cens", "probs", 0.0508443717439644, 2)) [>-]  33% / 0s  Checking ds3 (getNegativeScores("D$cens", "probs", 0.0508443717439644, 2)) [===>-------]  33% / 1s  Getting aggregate ds3 (getNegativeScores("D$cens", "probs", 0.0508443717439644, 2)) [>-]  50% / 1s  Checking ds4 (getNegativeScores("D$cens", "probs", 0.0508443717439644, 2)) [=====>-----]  50% / 1s  Getting aggregate ds4 (getNegativeScores("D$cens", "probs", 0.0508443717439644, 2)) [>-]  67% / 1s  Checking ds5 (getNegativeScores("D$cens", "probs", 0.0508443717439644, 2)) [======>----]  67% / 1s  Getting aggregate ds5 (getNegativeScores("D$cens", "probs", 0.0508443717439644, 2)) [=>]  83% / 1s  Aggregated (...) [=====================================================================] 100% / 1s
-#>    [-------------------------------------------------------------------------------------]   0% / 0s  Checking ds1 (getPositiveScores("D$cens", "probs", 0.0622326594071492, 2)) [-----------]   0% / 0s  Getting aggregate ds1 (getPositiveScores("D$cens", "probs", 0.0622326594071492, 2)) [--]  17% / 0s  Checking ds2 (getPositiveScores("D$cens", "probs", 0.0622326594071492, 2)) [=>---------]  17% / 0s  Getting aggregate ds2 (getPositiveScores("D$cens", "probs", 0.0622326594071492, 2)) [>-]  33% / 0s  Checking ds3 (getPositiveScores("D$cens", "probs", 0.0622326594071492, 2)) [===>-------]  33% / 1s  Getting aggregate ds3 (getPositiveScores("D$cens", "probs", 0.0622326594071492, 2)) [>-]  50% / 1s  Checking ds4 (getPositiveScores("D$cens", "probs", 0.0622326594071492, 2)) [=====>-----]  50% / 1s  Getting aggregate ds4 (getPositiveScores("D$cens", "probs", 0.0622326594071492, 2)) [>-]  67% / 1s  Checking ds5 (getPositiveScores("D$cens", "probs", 0.0622326594071492, 2)) [======>----]  67% / 1s  Getting aggregate ds5 (getPositiveScores("D$cens", "probs", 0.0622326594071492, 2)) [=>]  83% / 1s  Aggregated (...) [=====================================================================] 100% / 1s
-#> [2022-02-09 23:45:35] Finished!
+#>    [-------------------------------------------------------------------------------------]   0% / 0s  Checking ds1 (getPositiveScoresVar("D$cens", "probs", 4)) [----------------------------]   0% / 0s  Getting aggregate ds1 (getPositiveScoresVar("D$cens", "probs", 4)) [==>----------------]  17% / 0s  Checking ds2 (getPositiveScoresVar("D$cens", "probs", 4)) [====>-----------------------]  17% / 0s  Getting aggregate ds2 (getPositiveScoresVar("D$cens", "probs", 4)) [=====>-------------]  33% / 0s  Checking ds3 (getPositiveScoresVar("D$cens", "probs", 4)) [========>-------------------]  33% / 0s  Getting aggregate ds3 (getPositiveScoresVar("D$cens", "probs", 4)) [=========>---------]  50% / 1s  Checking ds4 (getPositiveScoresVar("D$cens", "probs", 4)) [=============>--------------]  50% / 1s  Getting aggregate ds4 (getPositiveScoresVar("D$cens", "probs", 4)) [============>------]  67% / 1s  Checking ds5 (getPositiveScoresVar("D$cens", "probs", 4)) [==================>---------]  67% / 1s  Getting aggregate ds5 (getPositiveScoresVar("D$cens", "probs", 4)) [===============>---]  83% / 1s  Aggregated (...) [=====================================================================] 100% / 1s
+#>    [-------------------------------------------------------------------------------------]   0% / 0s  Checking ds1 (getNegativeScores("D$cens", "probs", 0.0533942701025974, 2)) [-----------]   0% / 0s  Getting aggregate ds1 (getNegativeScores("D$cens", "probs", 0.0533942701025974, 2)) [--]  17% / 0s  Checking ds2 (getNegativeScores("D$cens", "probs", 0.0533942701025974, 2)) [=>---------]  17% / 0s  Getting aggregate ds2 (getNegativeScores("D$cens", "probs", 0.0533942701025974, 2)) [>-]  33% / 0s  Checking ds3 (getNegativeScores("D$cens", "probs", 0.0533942701025974, 2)) [===>-------]  33% / 1s  Getting aggregate ds3 (getNegativeScores("D$cens", "probs", 0.0533942701025974, 2)) [>-]  50% / 1s  Checking ds4 (getNegativeScores("D$cens", "probs", 0.0533942701025974, 2)) [=====>-----]  50% / 1s  Getting aggregate ds4 (getNegativeScores("D$cens", "probs", 0.0533942701025974, 2)) [>-]  67% / 1s  Checking ds5 (getNegativeScores("D$cens", "probs", 0.0533942701025974, 2)) [======>----]  67% / 1s  Getting aggregate ds5 (getNegativeScores("D$cens", "probs", 0.0533942701025974, 2)) [=>]  83% / 1s  Aggregated (...) [=====================================================================] 100% / 1s
+#>    [-------------------------------------------------------------------------------------]   0% / 0s  Checking ds1 (getPositiveScores("D$cens", "probs", 0.0558723748401359, 2)) [-----------]   0% / 0s  Getting aggregate ds1 (getPositiveScores("D$cens", "probs", 0.0558723748401359, 2)) [--]  17% / 0s  Checking ds2 (getPositiveScores("D$cens", "probs", 0.0558723748401359, 2)) [=>---------]  17% / 0s  Getting aggregate ds2 (getPositiveScores("D$cens", "probs", 0.0558723748401359, 2)) [>-]  33% / 0s  Checking ds3 (getPositiveScores("D$cens", "probs", 0.0558723748401359, 2)) [===>-------]  33% / 0s  Getting aggregate ds3 (getPositiveScores("D$cens", "probs", 0.0558723748401359, 2)) [>-]  50% / 1s  Checking ds4 (getPositiveScores("D$cens", "probs", 0.0558723748401359, 2)) [=====>-----]  50% / 1s  Getting aggregate ds4 (getPositiveScores("D$cens", "probs", 0.0558723748401359, 2)) [>-]  67% / 1s  Checking ds5 (getPositiveScores("D$cens", "probs", 0.0558723748401359, 2)) [======>----]  67% / 1s  Getting aggregate ds5 (getPositiveScores("D$cens", "probs", 0.0558723748401359, 2)) [=>]  83% / 1s  Aggregated (...) [=====================================================================] 100% / 1s
+#> [2022-02-10 00:01:38] Finished!
 gg_distr_roc = plot(roc_glm)
 gg_distr_roc
 ```
@@ -257,7 +345,7 @@ auc = pROC::auc(dat_test$cens, probs)
 #> Setting direction: controls < cases
 c(auc_emp = auc, auc_distr_roc_glm = roc_glm$auc)
 #>           auc_emp auc_distr_roc_glm 
-#>            0.6611            0.6655
+#>            0.6611            0.6712
 
 # Calculate TPR and FPR values and add to distributed ROC-GLM plot
 plt_emp_roc_data = simpleROC(dat_test$cens, probs)
